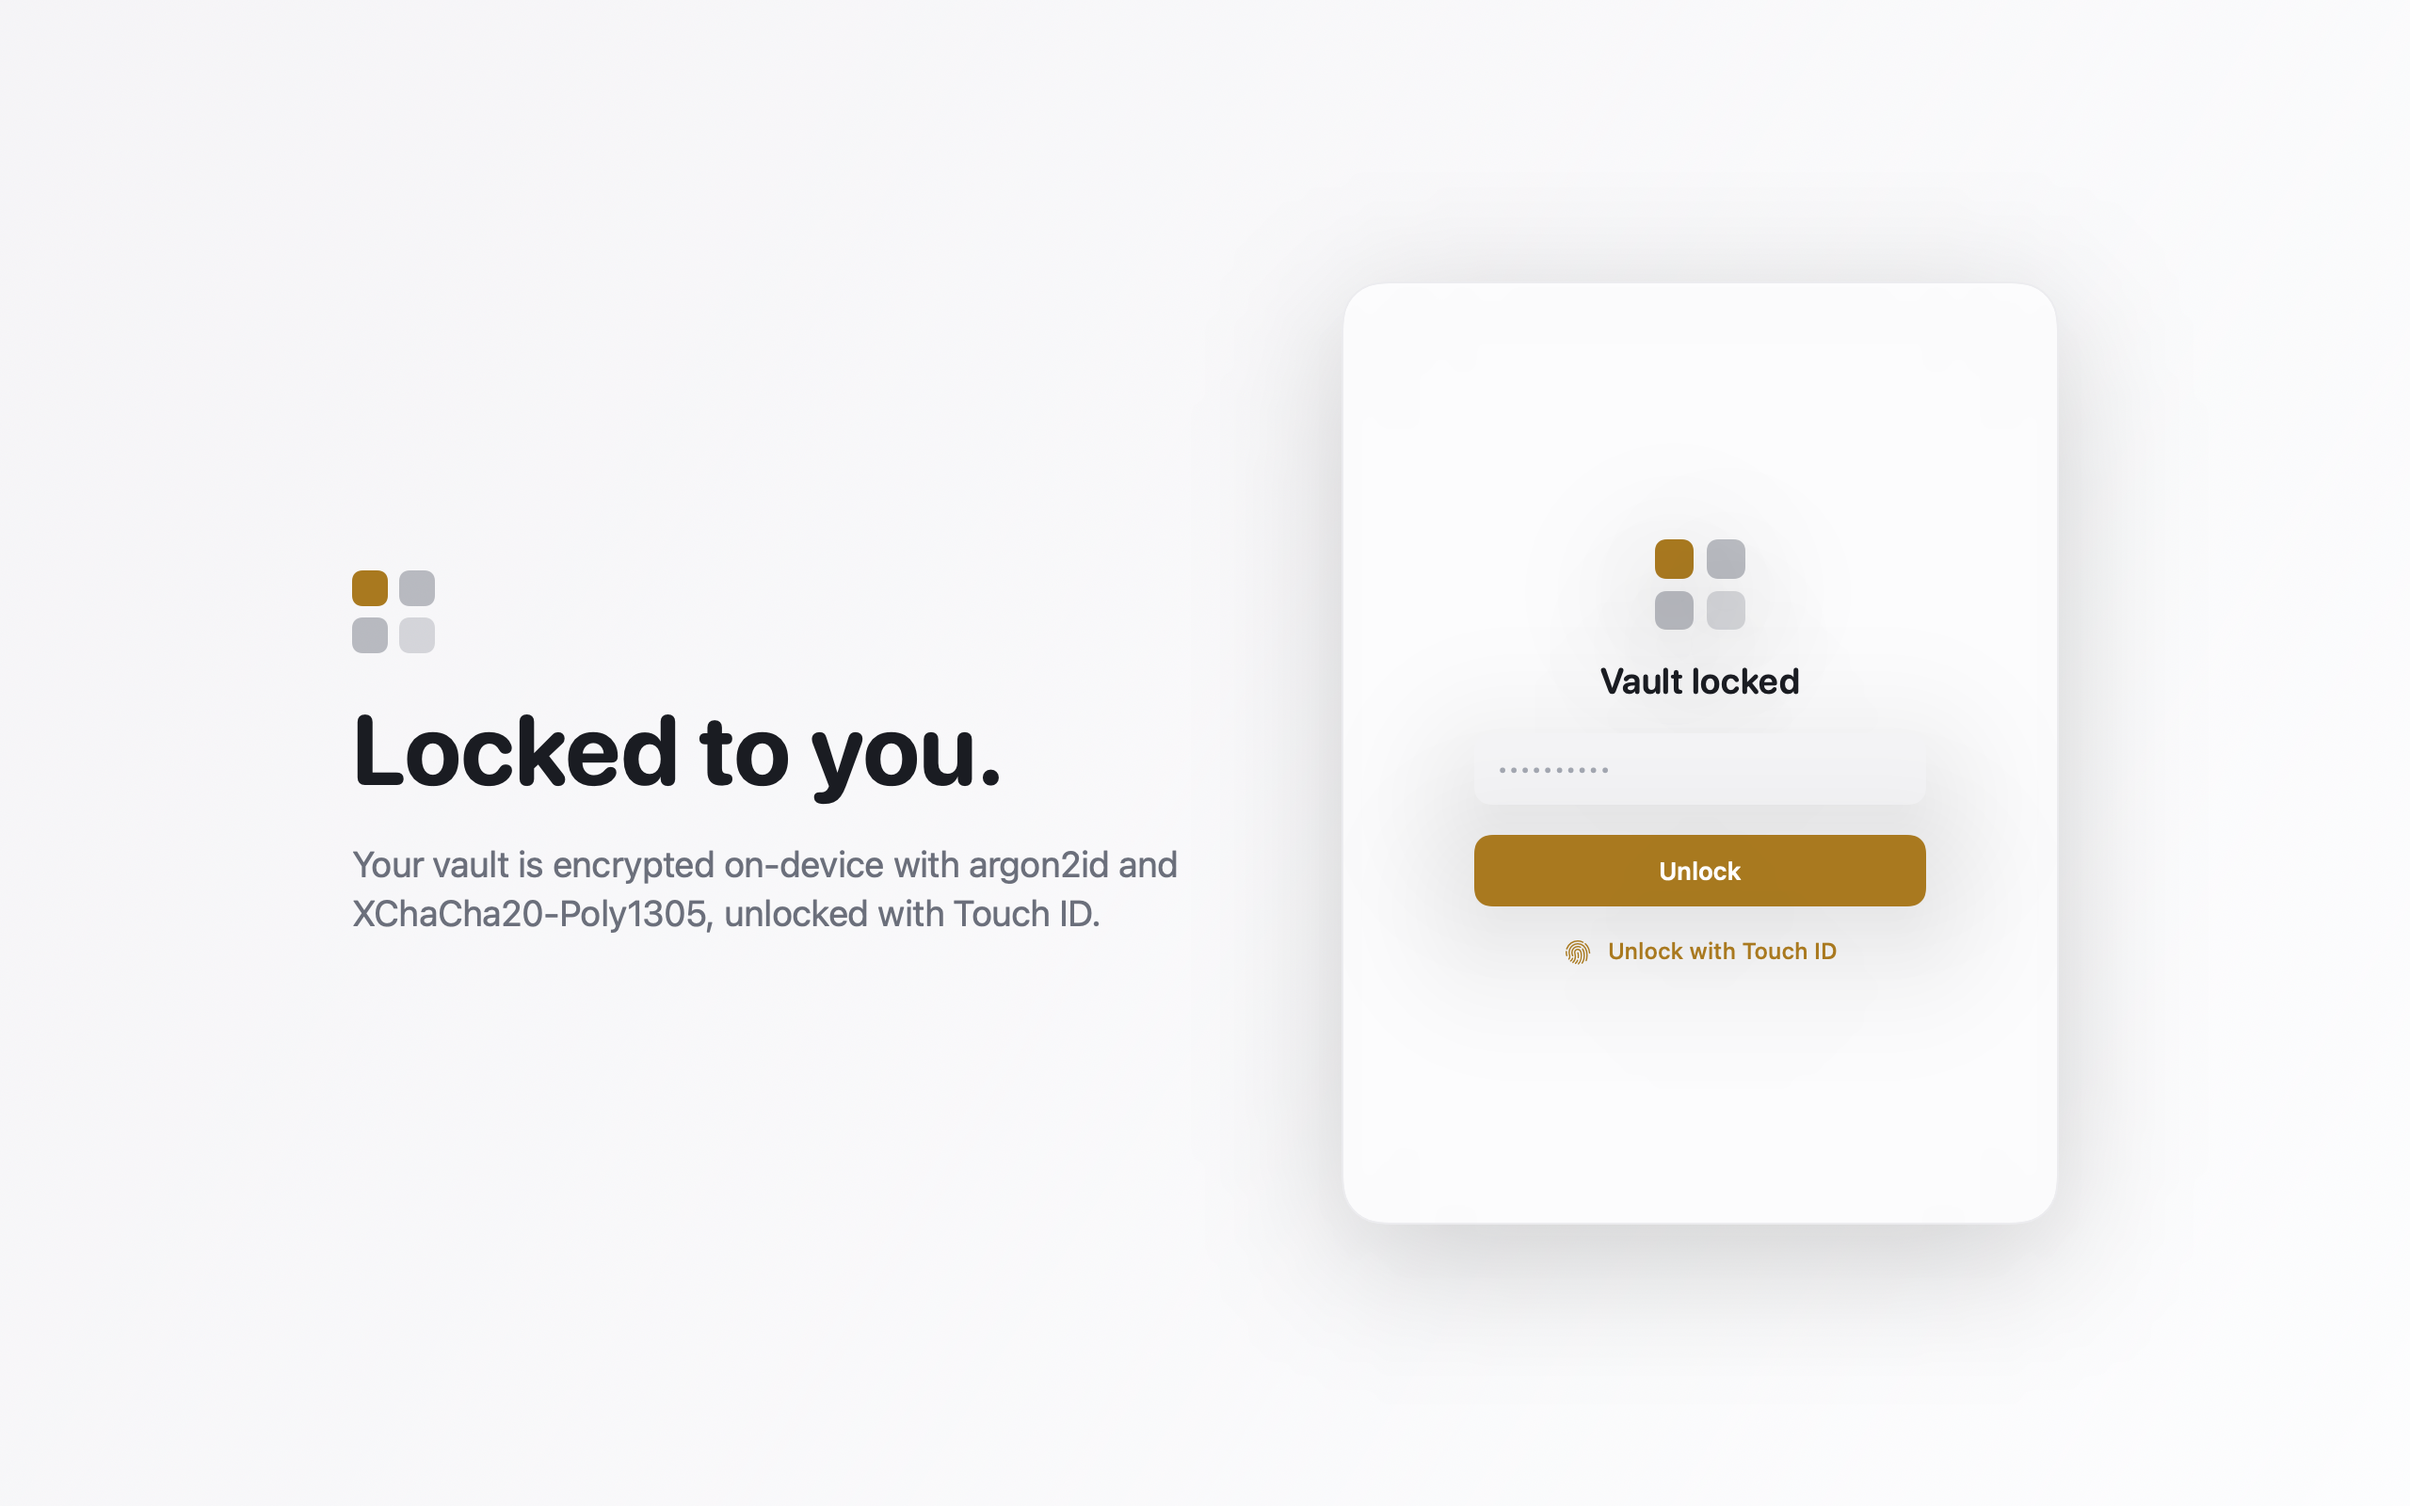
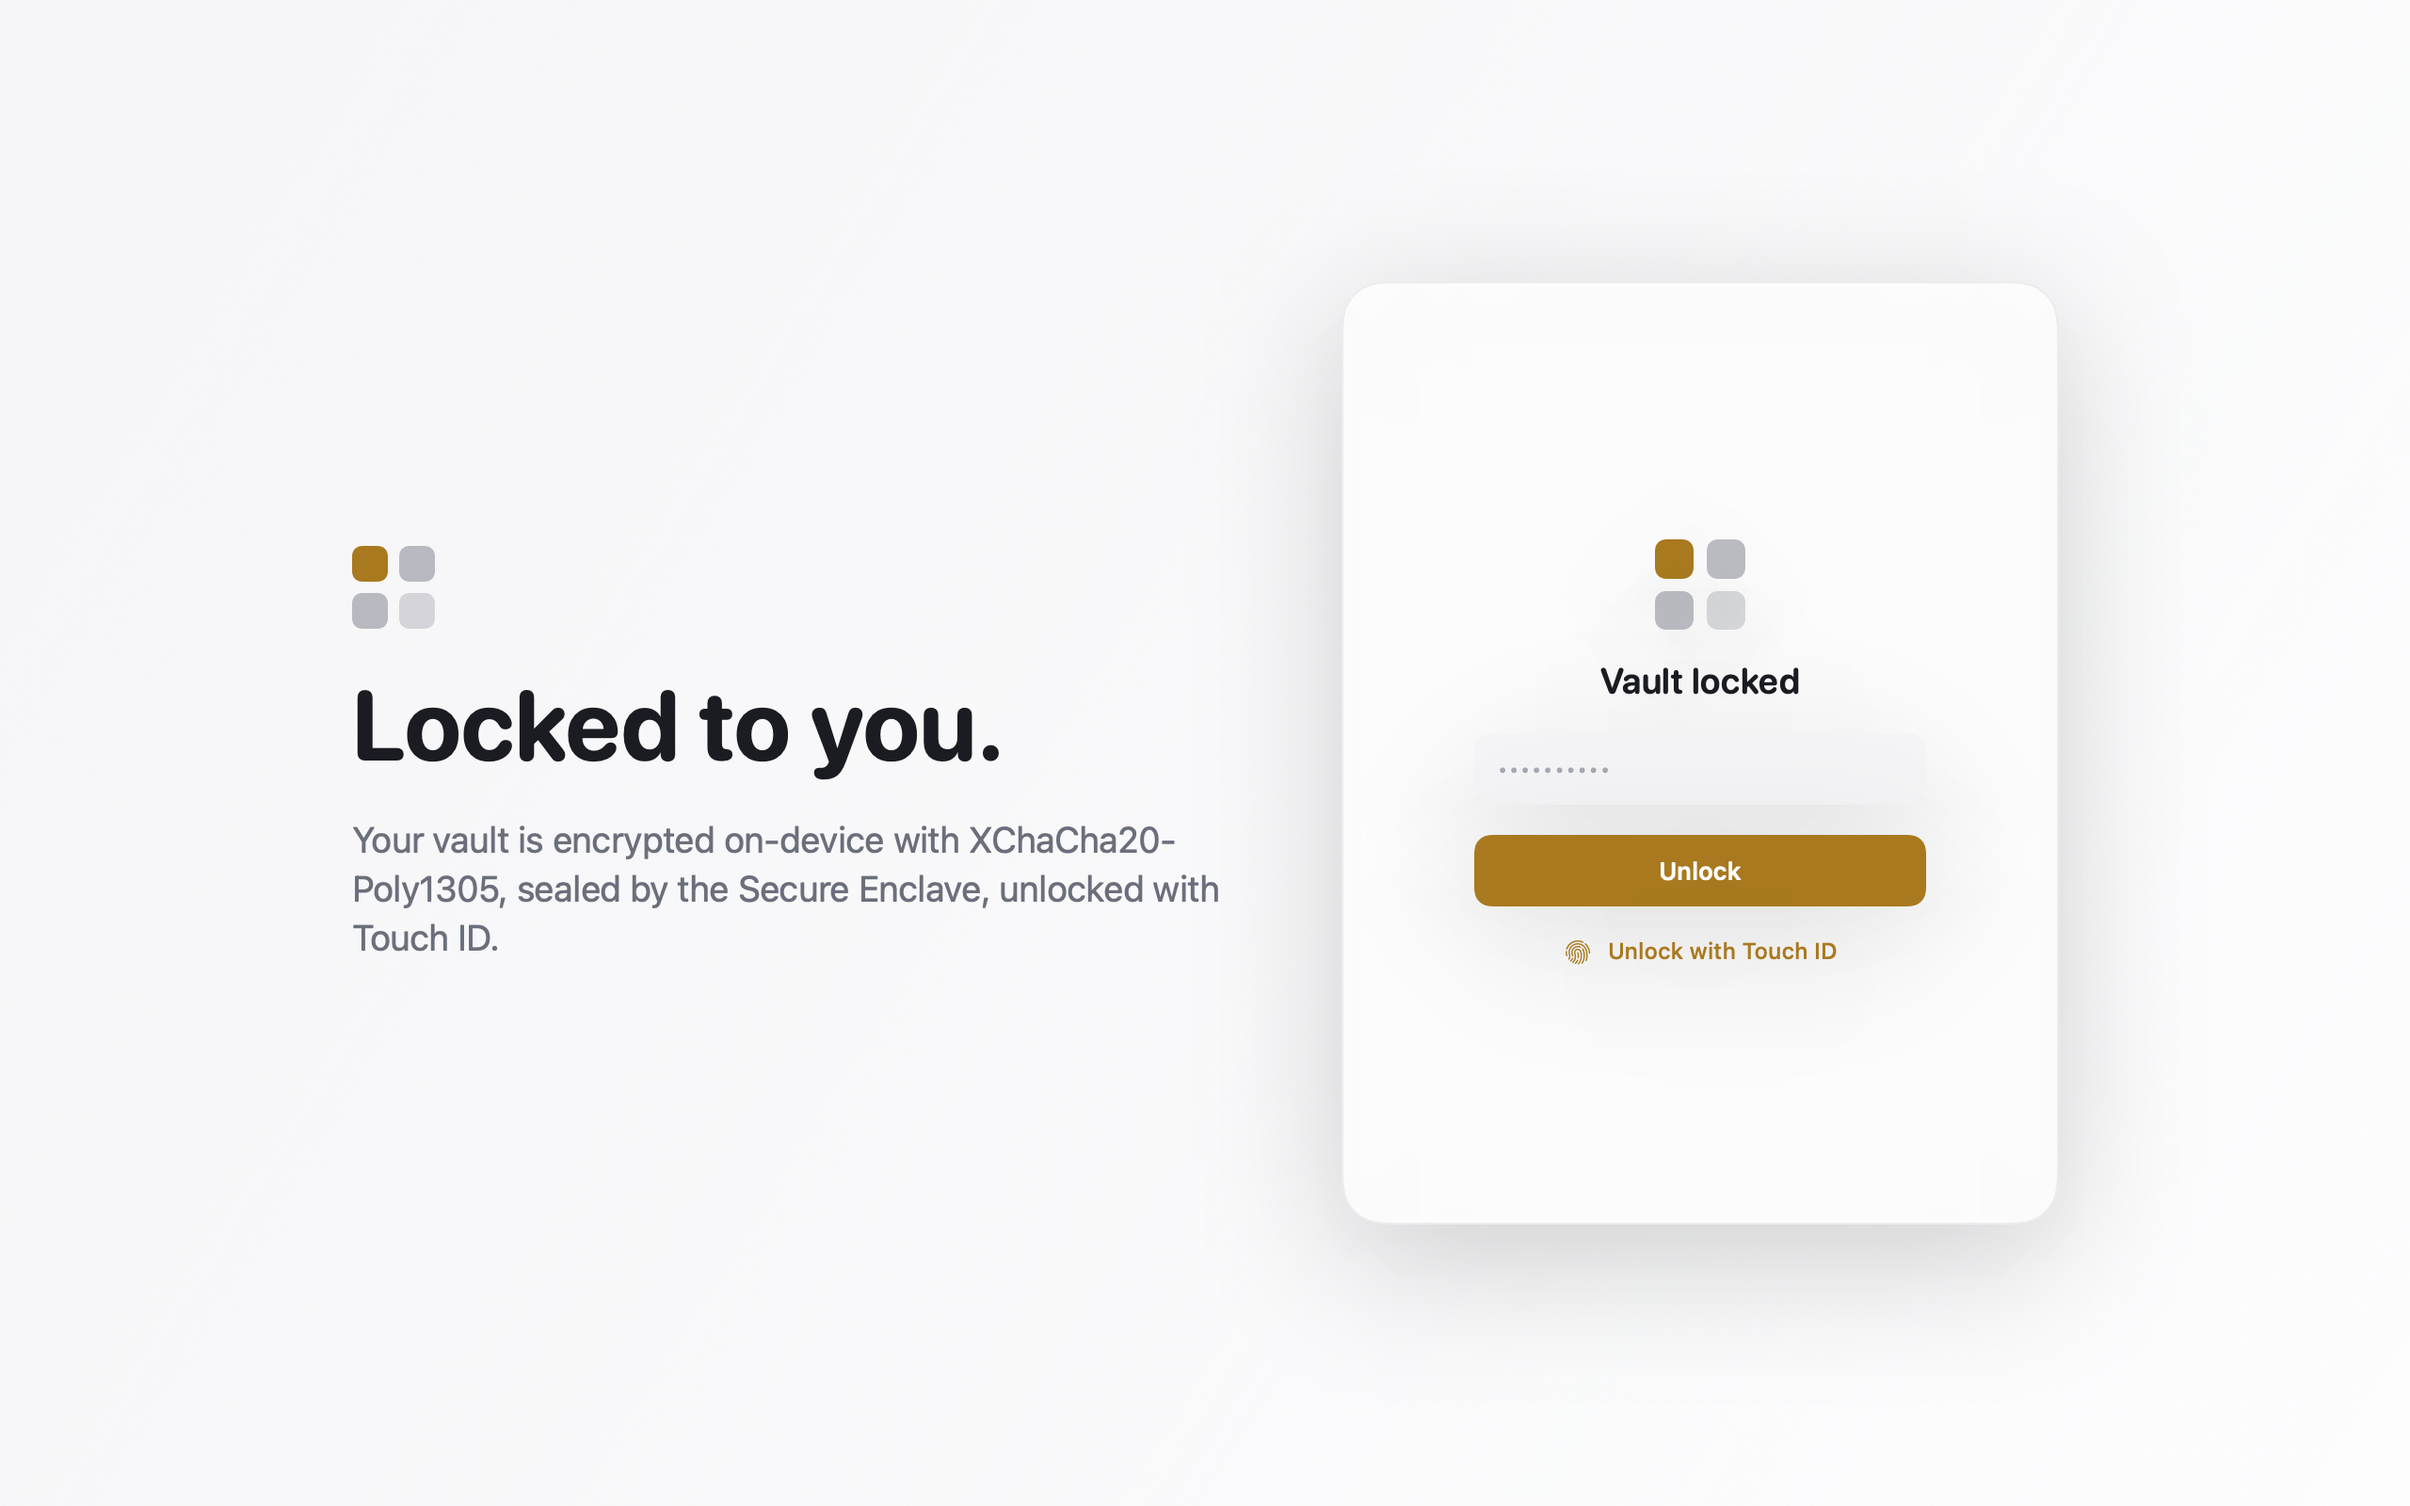
fix(assets): regenerate App Store screenshots without menu bar copy
Marketing shot subtitles now match the shipped app: no menu bar claim, the
Secure Enclave wrap named for the lock screen, no only-authenticator
overclaim. All eight PNGs regenerated.

Changed region(s): [[0.125, 0.4688, 0.5, 0.625], [0.125, 0.3438, 0.1875, 0.4375]]

diff --git a/swift/App/Sources/MarketingShot.swift b/swift/App/Sources/MarketingShot.swift
@@ -17,19 +17,19 @@ enum MarketingShot {
         let screens: [(String, AnyView)] = [
             ("01-vault", AnyView(Frame(
                 title: "Every code,\nat a glance.",
-                subtitle: "TOTP, HOTP, and Steam Guard — with a live countdown and one-click copy from your menu bar.",
+                subtitle: "TOTP, HOTP, and Steam Guard, with a live countdown and one-click copy.",
                 content: WindowMock()))),
             ("02-touchid", AnyView(Frame(
                 title: "Locked to you.",
-                subtitle: "Your vault is encrypted on-device with argon2id and XChaCha20-Poly1305, unlocked with Touch ID.",
+                subtitle: "Your vault is encrypted on-device with XChaCha20-Poly1305, sealed by the Secure Enclave, unlocked with Touch ID.",
                 content: UnlockMock()))),
             ("03-cli", AnyView(Frame(
                 title: "A real\ncommand line.",
-                subtitle: "The only Mac authenticator with a first-class CLI. Live terminal view, scripting, JSON — tess watch.",
+                subtitle: "A first-class CLI: live terminal view, scripting, JSON output. tess watch.",
                 content: TerminalMock()))),
             ("04-private", AnyView(Frame(
                 title: "Private by\ndesign.",
-                subtitle: "No account. No servers. No tracking. Open source, so anyone can verify exactly what it does.",
+                subtitle: "No account and no servers. Open source, so anyone can verify exactly what it does.",
                 content: TrustMock()))),
         ]
         for scheme in [ColorScheme.light, .dark] {
@@ -143,7 +143,7 @@ private struct TerminalMock: View {
                 Spacer()
                 Text("tess watch").font(.system(size: 11, design: .monospaced)).foregroundStyle(.white.opacity(0.4))
             }.padding(.bottom, 8)
-            row("◧ Tessera", gold, bold: true); rowPlain("6 accounts")
+            row("◧ Tessera", gold, bold: true); rowPlain("5 accounts")
             Spacer().frame(height: 8)
             term("G", 0xB0506E, "GitHub", "318 204", 0.85)
             term("C", 0x3B6FB0, "Cloudflare", "907 551", 0.62)
